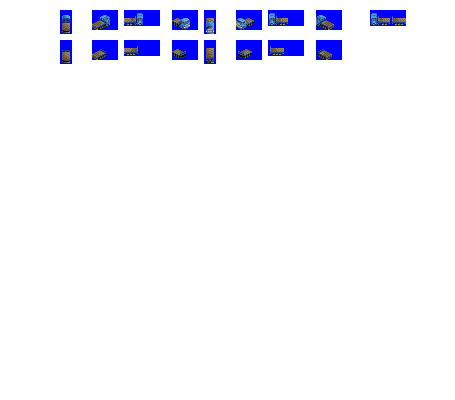
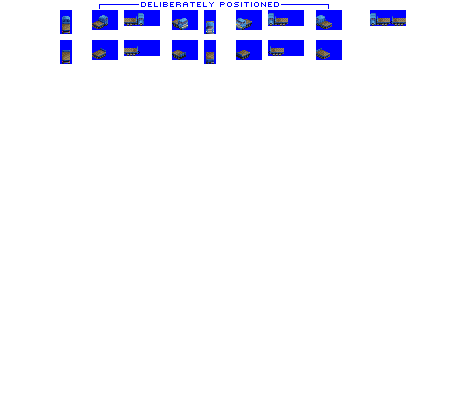
Change: improve Big Rigg and Windergill flatbed truck sprites

diff --git a/src/vehicles/windergill.py b/src/vehicles/windergill.py
@@ -18,7 +18,7 @@ consist.add_unit(FlatBedHauler(consist = consist,
 consist.add_unit(FlatBedHauler(consist = consist,
                         weight = 5,
                         capacity = 15,
-                        vehicle_length = 5,
+                        vehicle_length = 4,
                         spriterow_num = 1))
 
 consist.add_model_variant(intro_date=0,
